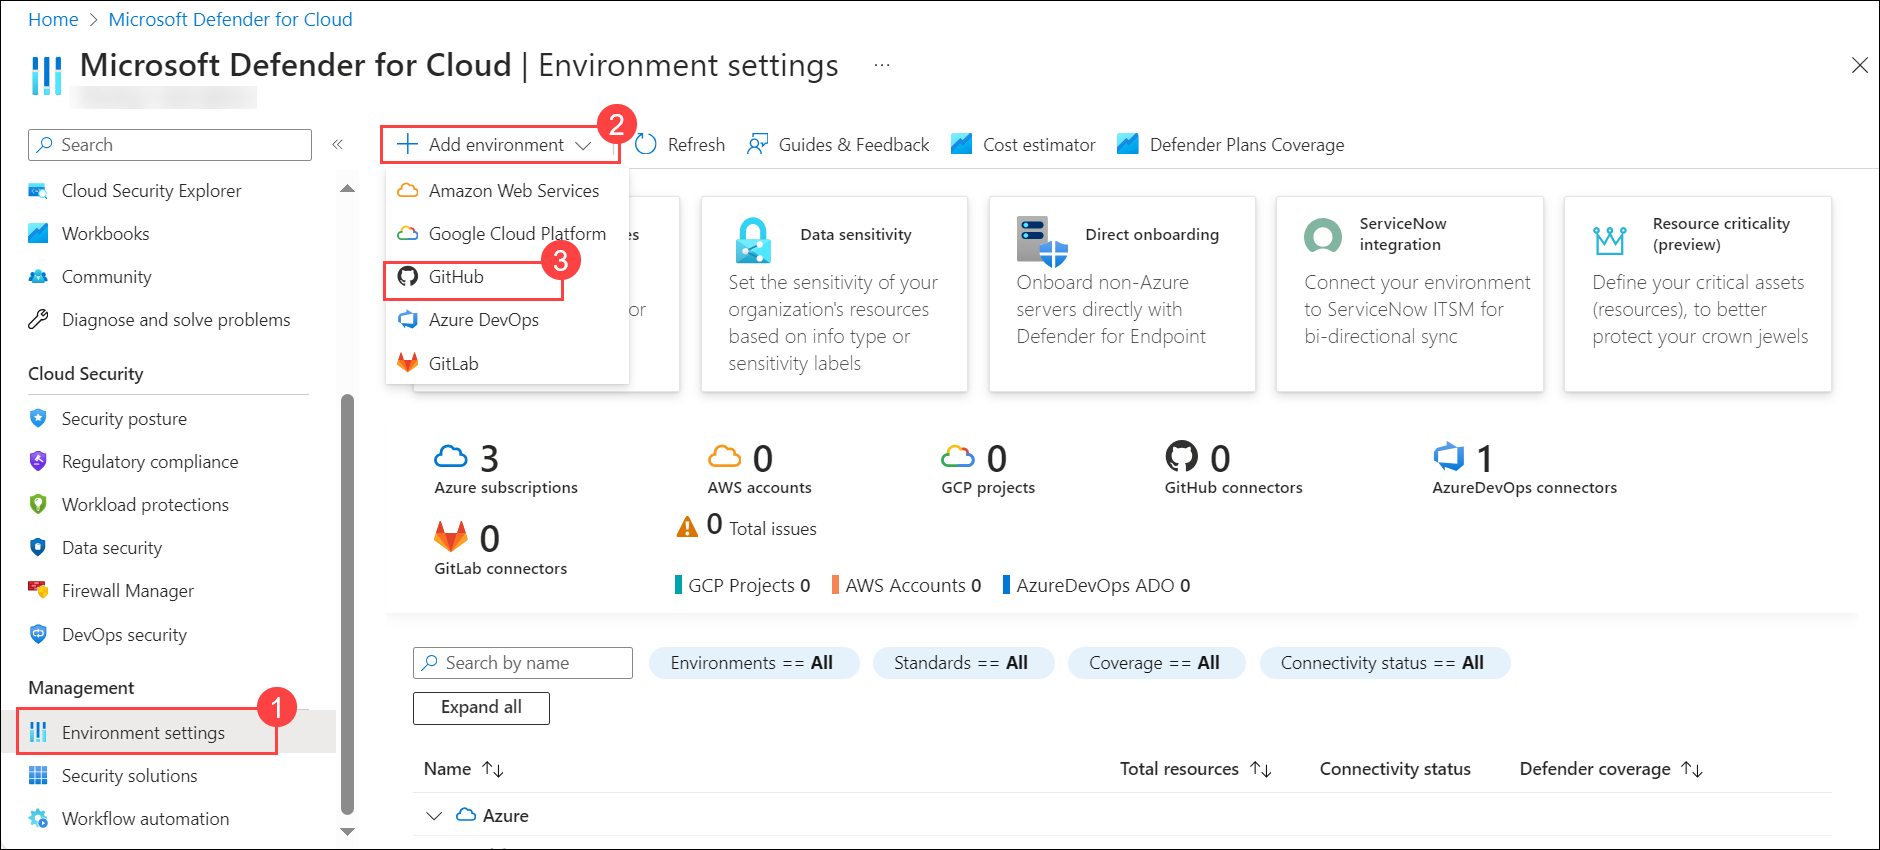
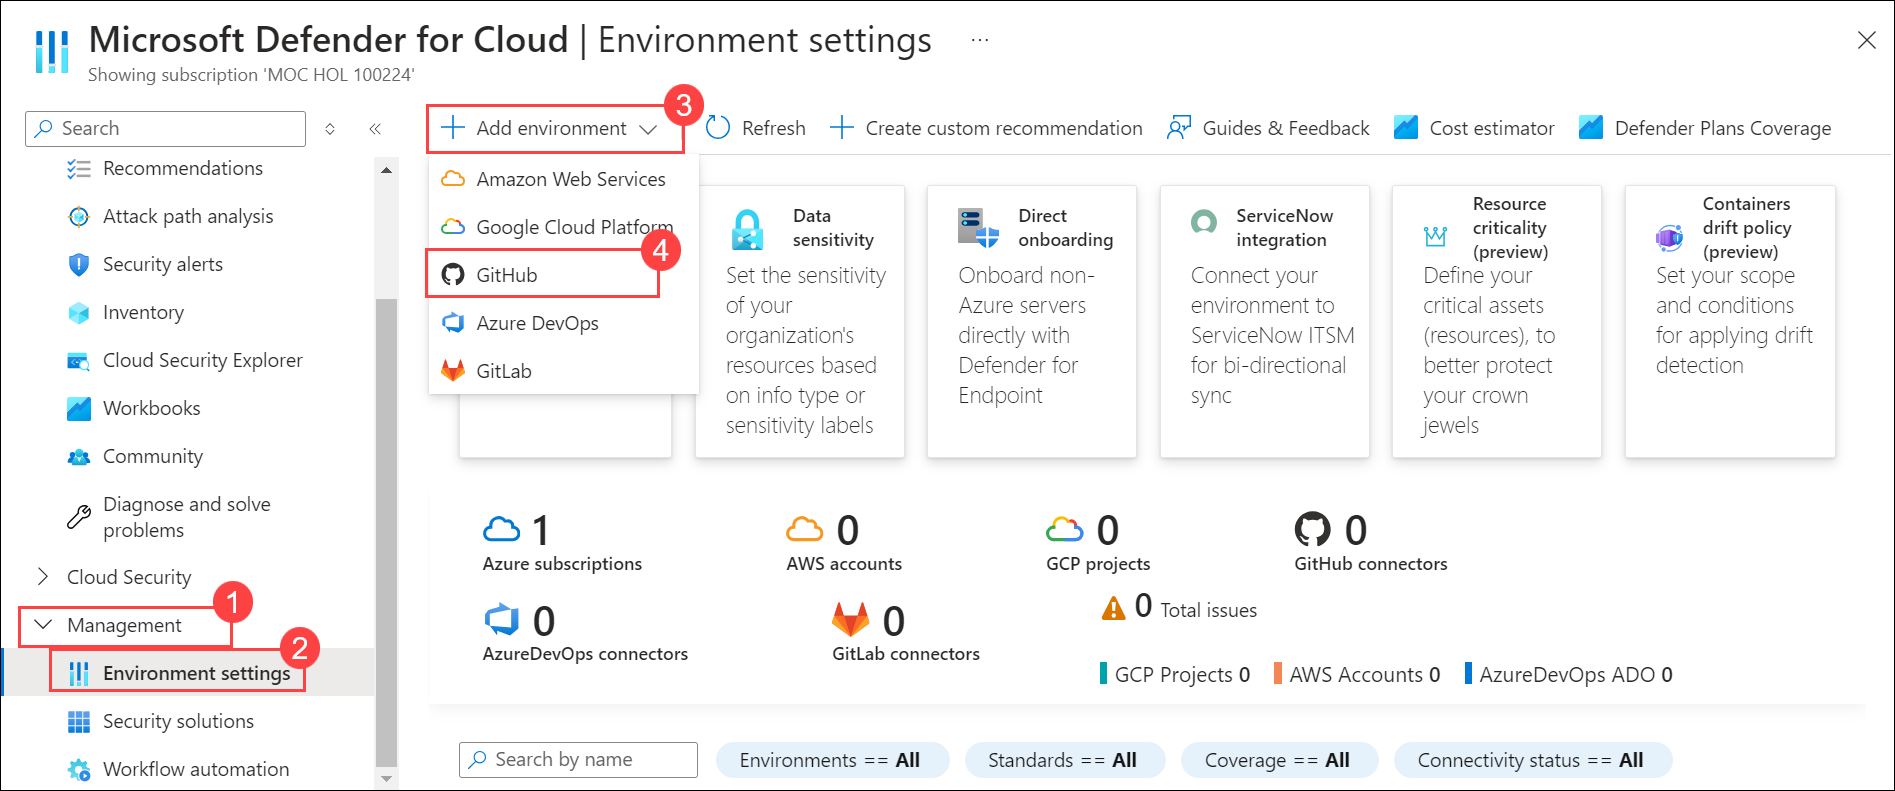
update

diff --git a/Module4-CodeScanning.md b/Module4-CodeScanning.md
@@ -194,7 +194,9 @@ In this task, you will set up and use CodeQL in Visual Studio Code to analyze a 
     cd Desktop
     ```
     
-1. Clone the repository by running the following command:
+1. Clone the repository by running the following command, You can also obtain the URL of your repository by navigating to it, clicking on the **Code** tab, and copying the URL provided.
+
+    ![Picture1](./images/clonerepoat.png)
 
       >**Note**: Make sure to update the name of your organization, **ghas-bootcamp-xxxx-xx-xx-cloudlabsxxxx**.
 
@@ -213,6 +215,10 @@ In this task, you will set up and use CodeQL in Visual Studio Code to analyze a 
 1. Select **Yes, I trust the authors**.
 
     ![Picture1](./images/clonerepo2.png)
+
+1. If you receive a pop-up requesting permission to collect usage data, simply click **Yes** to proceed.
+
+    ![Picture1](./images/clonerepo3at.png)
 
 1. Go to **Account** icon from bottom and click on **Sign in with GitHub to use CodeQL**. Please note it might take some time to get the extension updated with code, If you get any pop-up select yes. 
 
@@ -252,6 +258,8 @@ In this task, you will set up and use CodeQL in Visual Studio Code to analyze a 
 
     ![Picture1](./images/clonerepo10.png)
 
+    >**Note**: If you receive a pop-up asking to run queries: example.ql , simply click **Yes** to proceed.
+
 1. Now, replace the existing code with the provided code snippet. Then, click on the **Run** button to execute it.
 
    - This CodeQL query identifies named entities (special functions, built-in functions, modules, and files) in a Python codebase from a specified list of names ("foo", "baz", "main", "os", "sys", "re"). It checks if each name matches a specific type ("special", "builtin", "module", "file") and selects them, ordering the results by name and kind. 
@@ -285,7 +293,13 @@ In this task, you will set up and use CodeQL in Visual Studio Code to analyze a 
 
 Please feel free to go through the document for further understanding:[Code Security](https://docs.github.com/en/code-security) and [CodeQL Documentation](https://codeql.github.com/docs/)
 
-### Task 5: Turned on GitHub Advanced Security for Organization. [Read Only]
+### Task 5: Turn on GitHub Advanced Security for Organization. [Read Only]
+
+#### About the GitHub-recommended security configuration
+
+The GitHub-recommended security configuration is a collection of enablement settings for GitHub's security features that is created and maintained by subject matter experts at GitHub. The GitHub-recommended security configuration is designed to successfully reduce the security risks for low- and high-impact repositories. We recommend you apply this configuration to all the repositories in your organization.
+
+   Refer to the link for more information. [About the GitHub-recommended security configuration](https://docs.github.com/en/enterprise-cloud@latest/code-security/securing-your-organization/enabling-security-features-in-your-organization/applying-the-github-recommended-security-configuration-in-your-organization)
 
 In this task, you will configure and apply security settings across all repositories within an organization. 
  
@@ -321,9 +335,9 @@ In this task, you will configure and apply security settings across all reposito
 
 In this lab you have completed the following:
 
-- Learnt how CodeQL is different from other static analysis tools
+- Learned how CodeQL is different from other static analysis tools
 - Turned on the default setup on a Python repository 
 - Turned on the advanced setup on a Java repository
 - Added some vulnerable code via a pull request and viewed the scan results in the PR. 
-- CodeQL Query Operations in Visual Studio
-- Turn on GitHub Advanced Security for Organization 
+- Demonstrated CodeQL Query Operations in Visual Studio Code
+- Turned on GitHub Advanced Security for Organization 

diff --git a/Module6-Microsoft_Defeneder_for_cloud_integration.md b/Module6-Microsoft_Defeneder_for_cloud_integration.md
@@ -28,7 +28,7 @@ Microsoft Defender for Cloud integrates with GitHub to provide enhanced security
 
    ![Picture1](./images/image12.jpg)
 
-1. In the Microsoft Defender for Cloud left menu, under **Management**, select **Environment settings (1)**. Click **Add environment (2)** from the top, then choose **GitHub (3)** from the dropdown. Follow the prompts to connect your GitHub account and configure the environment settings.
+1. In the Microsoft Defender for Cloud left menu, under **Management (1)**, select **Environment settings (2)**. Click **Add environment (3)** from the top, then choose **GitHub (4)** from the dropdown. Follow the prompts to connect your GitHub account and configure the environment settings.
 
    ![Picture1](./images/image2.png)
 
@@ -36,7 +36,7 @@ Microsoft Defender for Cloud integrates with GitHub to provide enhanced security
 
    | Setting  | Value |
    -----------|---------
-   | Connector name | ghaz-github |
+   | Connector name | ghas-github |
    | Resource group | Lab-VM |
    | Location | East US |
    

diff --git a/Module5-Scaling_out_ghas.md b/Module5-Scaling_out_ghas.md
@@ -56,7 +56,7 @@ Issue Resolution: MTTR can track the average time from when an issue is reported
 
    - **Incident Response:** For repositories using GitHub Actions or other integrations, MTTR can track how long it takes to resolve incidents or failures reported by these tools.
 
-### Task 2: View the security overview dashboard and reports 
+### Task 2: View the security overview dashboard and reports [Read Only]
 
 In this task, you will explore the GHAS security overview dashboard and reports to gain insights into your repository's security posture.
 
@@ -129,6 +129,7 @@ GitHub webhooks are a mechanism for automatically triggering actions or notifica
     | **Resource Group** | Lab-VM |
     | **Function App name** | **function-webhooks-<inject key="DeploymentID" enableCopy="false"/>** |
     | **Runtime stack** | **Node.js** |
+    | **Version** | **20 LTS** |
     | **Operating System** | **Windows** |
 
    ![Picture1](./images/ghas-exercise1-10.png)
